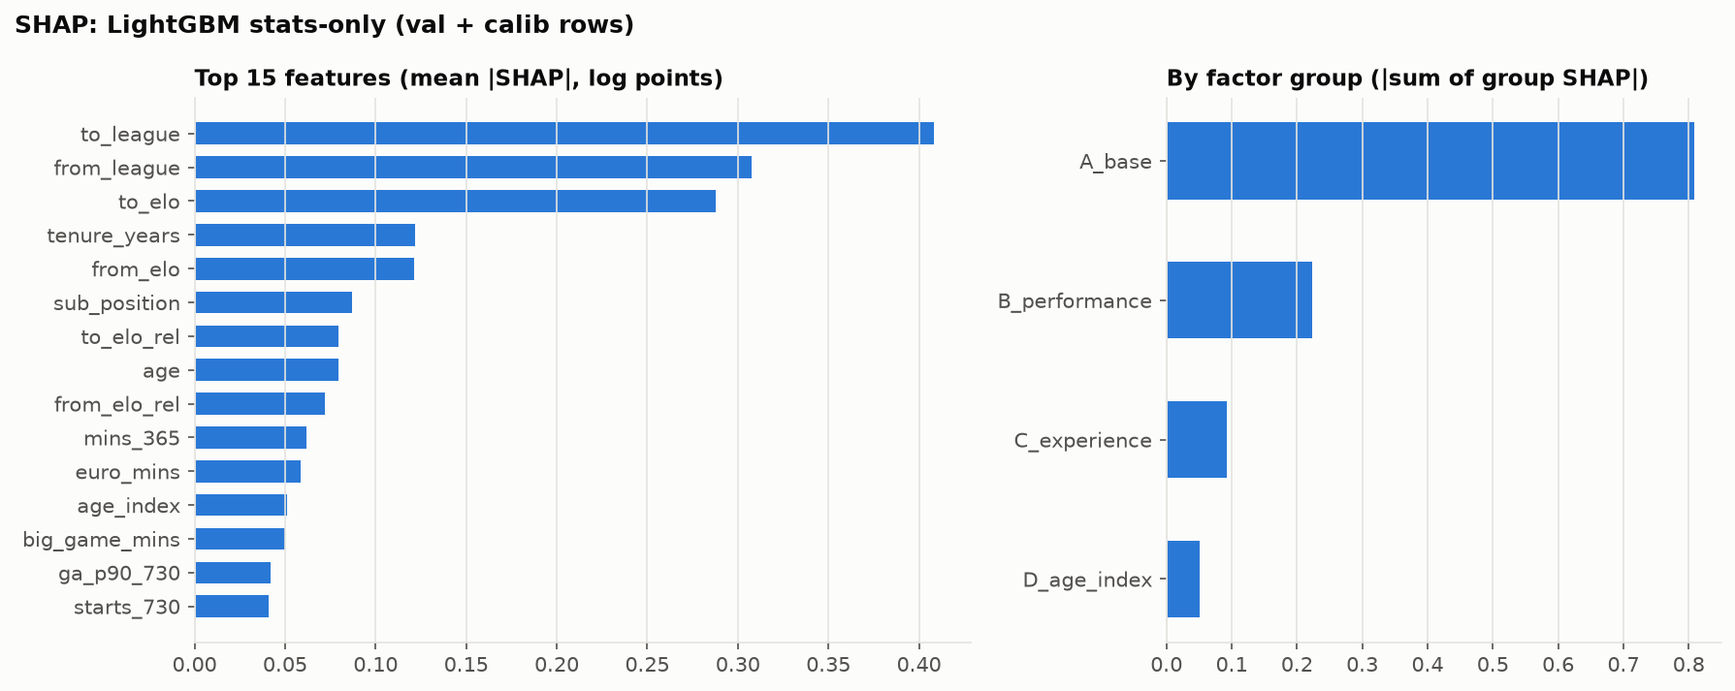
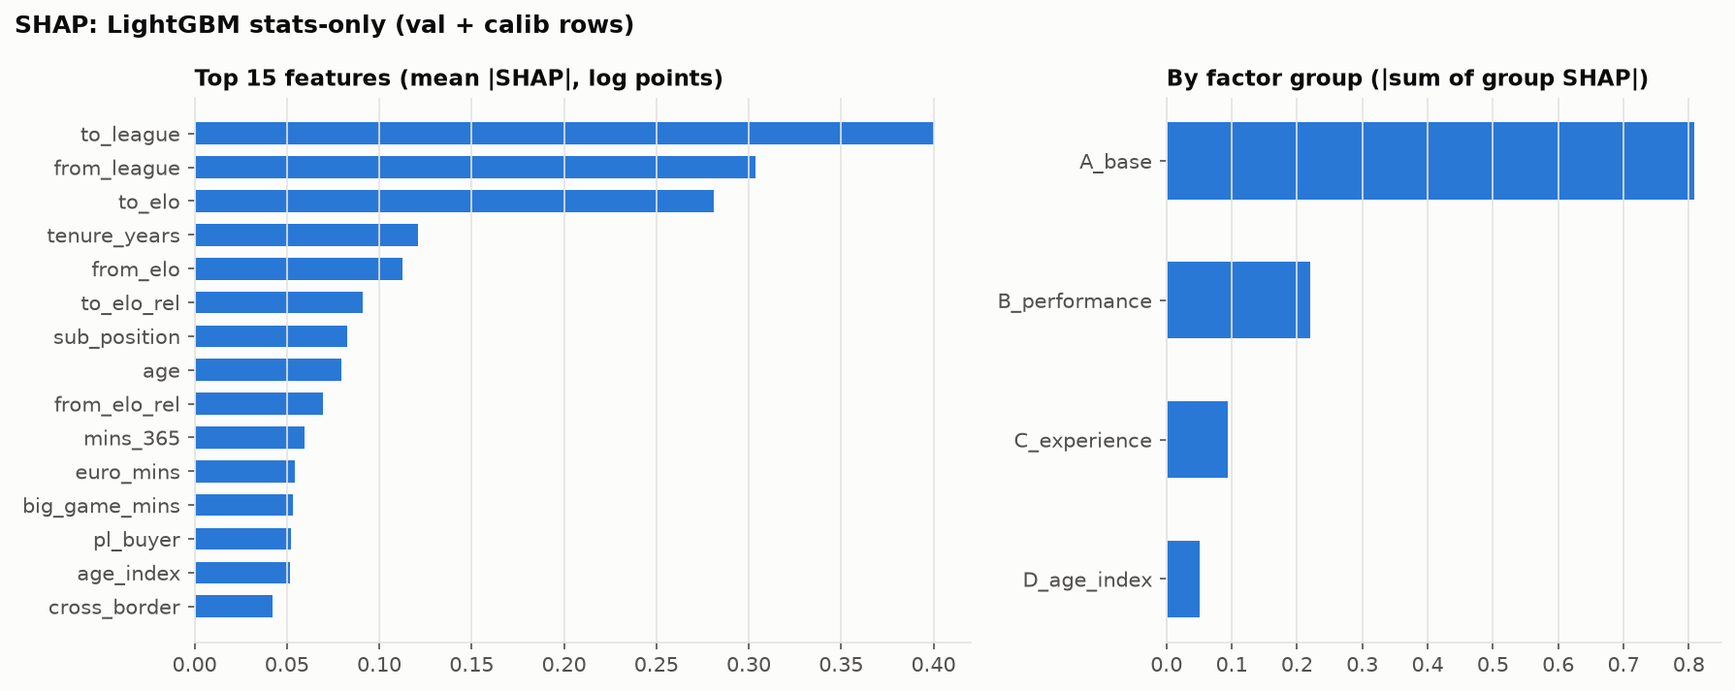
Checkpoint 1 decisions: segmented market-index deflator; brief v1.3 static website front end

diff --git a/src/fv/evaluation/report.py b/src/fv/evaluation/report.py
@@ -308,7 +308,7 @@ scored. All numbers below are validation (2020/21) unless stated.*
 * Splits: train < {cfg['splits']['train_end']} · validation → {cfg['splits']['val_end']} ·
   calibration → {cfg['splits']['calib_end']} · test after (untouched).
 * Target: real value = log(fee) − log(market index). Deflator used: **{meta['deflator']}**
-  (see the market-index section for why this overrides the pure validation rule).
+  (chosen at checkpoint 1 over the pure validation rule; see the market-index section).
 * Predictions are medians (exp of predicted log). MdAPE = median |pred / fee − 1|.
 * Fees are in EUR as recorded; GBP uses the ECB rate on the transfer date. Currency check: see
   `reports/data_audit.md` section 7 (fees agreed in £ were converted at the rate of the day; no
@@ -362,8 +362,9 @@ params), and the predictions converted back to money:
 its lead over the hedonic nowcast is within noise (90% CI includes 0), and on calibration all methods
 are tied. Prices in 2020–22 sat close to the training-period average, so an index cannot show its value
 there; it matters when the model has to price at levels outside its training range (test period and
-current valuations). The TM market level is clearly worst on validation. **Decision flagged for the
-user:** keep the hedonic nowcast (current setting) or follow the validation rule (no deflator).
+current valuations). The TM market level is clearly worst on validation. **Checkpoint 1 decision:**
+keep an index rather than none, using the segmented hedonic nowcast (best on calibration; it also removes
+the Premier League-buyer drift, section 4).
 
 ## 3. Price ranges (conformalized quantile regression)
 
@@ -389,9 +390,10 @@ Windows with fewer than {MIN_WINDOW_N} deals are excluded. **Drift found and par
 run flagged upward drift overall (the model over-priced post-2020 deals by ~10%). Cause: the median
 fee / TM-value ratio was ~1.2–1.4 in 2012–20 and ~1.0 from 2021, so TM values learned at the training
 ratio over-price later deals. Using the real-time ratio (`log_tm_adj`) removed the overall drift.
-**Still flagged:** PL buyers (only {int(drift.loc[drift.segment == 'PL buyers', 'windows'].iloc[0])} windows with ≥{MIN_WINDOW_N} deals):
-under-priced in 2015–17 (the Premier League TV-deal surge), close to zero since. The segmented
-deflator is the candidate fix; it was the best deflator on calibration but within noise.
+At checkpoint 1 PL buyers were still flagged (t = +2.16 with the un-segmented hedonic nowcast:
+under-priced in 2015–17, the Premier League TV-deal surge). The deflator was then switched to the
+segmented index (checkpoint 1 decision), which removed it. **Currently flagged:**
+{', '.join(f"{r.model} / {r.segment} (t = {r.t:+.2f})" for r in drift[drift.flag].itertuples()) or 'none'}.
 
 ## 5. Explanations (SHAP)
 

diff --git a/reports/model_report.md b/reports/model_report.md
@@ -8,8 +8,8 @@ scored. All numbers below are validation (2020/21) unless stated.*
 * Universe: permanent transfers with known fee ≥ €250,000, July 2012 → July 2026.
 * Splits: train < 2020-07-01 · validation → 2021-07-01 ·
   calibration → 2022-07-01 · test after (untouched).
-* Target: real value = log(fee) − log(market index). Deflator used: **hedonic nowcast**
-  (see the market-index section for why this overrides the pure validation rule).
+* Target: real value = log(fee) − log(market index). Deflator used: **hedonic nowcast + segments**
+  (chosen at checkpoint 1 over the pure validation rule; see the market-index section).
 * Predictions are medians (exp of predicted log). MdAPE = median |pred / fee − 1|.
 * Fees are in EUR as recorded; GBP uses the ECB rate on the transfer date. Currency check: see
   `reports/data_audit.md` section 7 (fees agreed in £ were converted at the rate of the day; no
@@ -36,20 +36,20 @@ Common subset where a Transfermarkt value ≥30 days before the deal exists (n =
 |:--------------------------------------------|----:|:--------|----------:|:------------|:------------|
 | TM baseline (≥30d)                          | 833 | 50.9%   |     0.694 | 25.9%       | 47.9%       |
 | TM × real-time ratio                        | 833 | 50.0%   |     0.689 | 26.9%       | 49.9%       |
-| Ridge, stats only                           | 833 | 51.7%   |     0.684 | 23.6%       | 48.3%       |
-| Ridge, with TM                              | 833 | 44.0%   |     0.581 | 28.1%       | 56.4%       |
-| LightGBM stats-only                         | 833 | 46.7%   |     0.636 | 27.6%       | 54.0%       |
-| LightGBM TM-corrected                       | 833 | 39.5%   |     0.55  | 30.1%       | 60.3%       |
+| Ridge, stats only                           | 833 | 50.8%   |     0.685 | 22.8%       | 48.6%       |
+| Ridge, with TM                              | 833 | 43.2%   |     0.578 | 28.9%       | 57.4%       |
+| LightGBM stats-only                         | 833 | 47.1%   |     0.639 | 27.4%       | 53.1%       |
+| LightGBM TM-corrected                       | 833 | 40.2%   |     0.542 | 31.8%       | 61.7%       |
 | TM transfers-table value (leaky, reference) | 833 | 44.4%   |     0.642 | 28.8%       | 53.1%       |
 
 All validation rows (n = 883; the TM baseline cannot price rows without a TM value):
 
 | model                 |   n | MdAPE   |   MAE_log | within_25   | within_50   |
 |:----------------------|----:|:--------|----------:|:------------|:------------|
-| Ridge, stats only     | 883 | 52.3%   |     0.694 | 22.9%       | 47.0%       |
-| Ridge, with TM        | 883 | 44.7%   |     0.596 | 27.2%       | 55.3%       |
-| LightGBM stats-only   | 883 | 47.5%   |     0.646 | 27.0%       | 52.7%       |
-| LightGBM TM-corrected | 883 | 40.8%   |     0.565 | 29.4%       | 58.6%       |
+| Ridge, stats only     | 883 | 52.2%   |     0.697 | 22.3%       | 47.2%       |
+| Ridge, with TM        | 883 | 44.6%   |     0.594 | 27.6%       | 56.3%       |
+| LightGBM stats-only   | 883 | 48.6%   |     0.651 | 26.7%       | 51.8%       |
+| LightGBM TM-corrected | 883 | 41.3%   |     0.558 | 30.9%       | 59.9%       |
 
 TM baseline scale factor (fit on train, as the brief specifies): ×1.250.
 "TM × real-time ratio" instead multiplies the TM value by the median fee/TM ratio of deals in the prior
@@ -66,40 +66,40 @@ TM-corrected model uses the same real-time-adjusted TM value (`log_tm_adj`).
 
 | fee_band   |   n | TM baseline (≥30d)   | TM × real-time ratio   | Ridge, stats only   | Ridge, with TM   | LightGBM stats-only   | LightGBM TM-corrected   |
 |:-----------|----:|:---------------------|:-----------------------|:--------------------|:-----------------|:----------------------|:------------------------|
-| <€5m       | 594 | 56.3%                | 54.2%                  | 50.9%               | 46.2%            | 48.1%                 | 43.4%                   |
-| €5–20m     | 179 | 40.6%                | 39.3%                  | 54.4%               | 41.3%            | 46.9%                 | 36.4%                   |
-| €20–50m    |  51 | 26.1%                | 29.1%                  | 46.8%               | 27.9%            | 37.0%                 | 20.9%                   |
-| €50m+      |   9 | 13.2%                | 16.6%                  | 25.9%               | 18.0%            | 28.5%                 | 27.6%                   |
+| <€5m       | 594 | 56.3%                | 54.2%                  | 50.9%               | 47.1%            | 49.1%                 | 45.1%                   |
+| €5–20m     | 179 | 40.6%                | 39.3%                  | 51.7%               | 40.3%            | 42.8%                 | 32.5%                   |
+| €20–50m    |  51 | 26.1%                | 29.1%                  | 45.0%               | 30.7%            | 43.9%                 | 19.1%                   |
+| €50m+      |   9 | 13.2%                | 16.6%                  | 28.3%               | 15.8%            | 36.0%                 | 35.6%                   |
 
 **By buying league**
 
 | buying_league   |   n | TM baseline (≥30d)   | TM × real-time ratio   | Ridge, stats only   | Ridge, with TM   | LightGBM stats-only   | LightGBM TM-corrected   |
 |:----------------|----:|:---------------------|:-----------------------|:--------------------|:-----------------|:----------------------|:------------------------|
-| Bundesliga      |  47 | 40.6%                | 36.5%                  | 52.1%               | 47.3%            | 42.9%                 | 40.3%                   |
-| LaLiga          |  53 | 42.7%                | 45.8%                  | 41.4%               | 38.2%            | 39.4%                 | 36.4%                   |
-| Ligue 1         |  64 | 50.0%                | 43.1%                  | 53.0%               | 39.7%            | 49.2%                 | 36.0%                   |
-| Other           | 487 | 57.1%                | 55.0%                  | 51.1%               | 46.0%            | 47.5%                 | 42.0%                   |
-| Premier League  |  85 | 48.1%                | 44.5%                  | 57.6%               | 39.0%            | 45.1%                 | 31.6%                   |
-| Serie A         |  97 | 41.1%                | 39.4%                  | 52.0%               | 39.2%            | 46.8%                 | 36.5%                   |
+| Bundesliga      |  47 | 40.6%                | 36.5%                  | 54.0%               | 47.5%            | 45.4%                 | 40.7%                   |
+| LaLiga          |  53 | 42.7%                | 45.8%                  | 42.0%               | 43.7%            | 35.2%                 | 34.5%                   |
+| Ligue 1         |  64 | 50.0%                | 43.1%                  | 50.4%               | 37.7%            | 47.6%                 | 34.2%                   |
+| Other           | 487 | 57.1%                | 55.0%                  | 51.2%               | 45.3%            | 49.1%                 | 44.2%                   |
+| Premier League  |  85 | 48.1%                | 44.5%                  | 55.8%               | 41.3%            | 48.0%                 | 35.6%                   |
+| Serie A         |  97 | 41.1%                | 39.4%                  | 49.5%               | 39.8%            | 42.8%                 | 35.4%                   |
 
 **By position group**
 
 | position_group   |   n | TM baseline (≥30d)   | TM × real-time ratio   | Ridge, stats only   | Ridge, with TM   | LightGBM stats-only   | LightGBM TM-corrected   |
 |:-----------------|----:|:---------------------|:-----------------------|:--------------------|:-----------------|:----------------------|:------------------------|
-| Attack           | 298 | 50.7%                | 52.0%                  | 52.7%               | 41.9%            | 48.6%                 | 39.0%                   |
-| Defender         | 240 | 52.2%                | 52.2%                  | 49.3%               | 46.5%            | 45.6%                 | 39.8%                   |
-| Goalkeeper       |  43 | 48.4%                | 44.0%                  | 51.8%               | 38.5%            | 43.6%                 | 37.7%                   |
-| Midfield         | 252 | 52.0%                | 44.8%                  | 52.5%               | 42.8%            | 46.3%                 | 43.1%                   |
+| Attack           | 298 | 50.7%                | 52.0%                  | 52.4%               | 41.7%            | 48.2%                 | 37.7%                   |
+| Defender         | 240 | 52.2%                | 52.2%                  | 47.9%               | 45.5%            | 42.4%                 | 41.8%                   |
+| Goalkeeper       |  43 | 48.4%                | 44.0%                  | 51.3%               | 40.3%            | 43.9%                 | 35.4%                   |
+| Midfield         | 252 | 52.0%                | 44.8%                  | 51.3%               | 42.8%            | 50.5%                 | 44.1%                   |
 
 **By age band**
 
 | age_band   |   n | TM baseline (≥30d)   | TM × real-time ratio   | Ridge, stats only   | Ridge, with TM   | LightGBM stats-only   | LightGBM TM-corrected   |
 |:-----------|----:|:---------------------|:-----------------------|:--------------------|:-----------------|:----------------------|:------------------------|
-| ≤20        | 142 | 59.6%                | 61.4%                  | 55.9%               | 46.9%            | 55.1%                 | 49.6%                   |
-| 21–23      | 280 | 40.8%                | 39.3%                  | 51.7%               | 45.4%            | 47.7%                 | 42.6%                   |
-| 24–26      | 226 | 50.0%                | 48.0%                  | 46.6%               | 37.1%            | 40.8%                 | 33.1%                   |
-| 27–29      | 143 | 70.5%                | 62.8%                  | 48.7%               | 46.0%            | 43.8%                 | 36.6%                   |
-| 30+        |  42 | 66.7%                | 57.0%                  | 54.4%               | 57.5%            | 48.6%                 | 47.5%                   |
+| ≤20        | 142 | 59.6%                | 61.4%                  | 56.0%               | 45.9%            | 55.9%                 | 46.6%                   |
+| 21–23      | 280 | 40.8%                | 39.3%                  | 50.4%               | 45.5%            | 46.9%                 | 44.6%                   |
+| 24–26      | 226 | 50.0%                | 48.0%                  | 44.5%               | 37.2%            | 40.6%                 | 32.6%                   |
+| 27–29      | 143 | 70.5%                | 62.8%                  | 52.6%               | 43.2%            | 49.1%                 | 34.3%                   |
+| 30+        |  42 | 66.7%                | 57.0%                  | 54.7%               | 54.3%            | 56.2%                 | 42.3%                   |
 
 
 ## 2. Market index
@@ -137,8 +137,9 @@ params), and the predictions converted back to money:
 its lead over the hedonic nowcast is within noise (90% CI includes 0), and on calibration all methods
 are tied. Prices in 2020–22 sat close to the training-period average, so an index cannot show its value
 there; it matters when the model has to price at levels outside its training range (test period and
-current valuations). The TM market level is clearly worst on validation. **Decision flagged for the
-user:** keep the hedonic nowcast (current setting) or follow the validation rule (no deflator).
+current valuations). The TM market level is clearly worst on validation. **Checkpoint 1 decision:**
+keep an index rather than none, using the segmented hedonic nowcast (best on calibration; it also removes
+the Premier League-buyer drift, section 4).
 
 ## 3. Price ranges (conformalized quantile regression)
 
@@ -146,13 +147,13 @@ user:** keep the hedonic nowcast (current setting) or follow the validation rule
 
 | model        | interval      |   below_q10 |   above_q90 |   coverage |   median_width_ratio |
 |:-------------|:--------------|------------:|------------:|-----------:|---------------------:|
-| Stats-only   | raw quantiles |        16.5 |        12.7 |       70.8 |                 6.49 |
-| Stats-only   | CQR           |        13.3 |        10.4 |       76.3 |                 8    |
-| TM-corrected | raw quantiles |        14.8 |        13.7 |       71.5 |                 5.16 |
-| TM-corrected | CQR           |        12.7 |        10.8 |       76.6 |                 6.2  |
+| Stats-only   | raw quantiles |        18.8 |        11.8 |       69.4 |                 6.89 |
+| Stats-only   | CQR           |        14.6 |         8.8 |       76.6 |                 8.48 |
+| TM-corrected | raw quantiles |        16.6 |        11.7 |       71.7 |                 5.22 |
+| TM-corrected | CQR           |        15.3 |         9.4 |       75.3 |                 5.87 |
 
 `median_width_ratio` = median of (upper / lower) bound. CQR offsets were fit on the calibration split
-(stats-only q̂ = 0.105, TM-corrected q̂ = 0.091 log points)
+(stats-only q̂ = 0.104, TM-corrected q̂ = 0.059 log points)
 and are evaluated here on validation, which is held out from both training and calibration.
 
 ## 4. Diagnostics: errors by window and segment
@@ -165,20 +166,21 @@ time (flag if |t| > 2):
 
 | model                 | segment      |   slope_per_year |    t |   windows | flag   |
 |:----------------------|:-------------|-----------------:|-----:|----------:|:-------|
-| LightGBM TM-corrected | all          |            0.015 | 1.03 |        14 | False  |
-| LightGBM TM-corrected | PL buyers    |            0.051 | 2.16 |         8 | True   |
-| LightGBM TM-corrected | Other buyers |            0.004 | 0.31 |        14 | False  |
-| LightGBM TM-corrected | Top-end      |            0.039 | 1.51 |         7 | False  |
-| LightGBM TM-corrected | Rest         |            0.011 | 0.79 |        14 | False  |
-| LightGBM stats-only   | all          |            0.024 | 1.9  |        14 | False  |
+| LightGBM TM-corrected | all          |            0.021 | 1.36 |        14 | False  |
+| LightGBM TM-corrected | PL buyers    |            0.022 | 1.02 |         8 | False  |
+| LightGBM TM-corrected | Other buyers |            0.017 | 1.19 |        14 | False  |
+| LightGBM TM-corrected | Top-end      |            0.034 | 1.13 |         7 | False  |
+| LightGBM TM-corrected | Rest         |            0.019 | 1.3  |        14 | False  |
+| LightGBM stats-only   | all          |            0.026 | 2.02 |        14 | True   |
 
 Windows with fewer than 30 deals are excluded. **Drift found and partly fixed:** a first
 run flagged upward drift overall (the model over-priced post-2020 deals by ~10%). Cause: the median
 fee / TM-value ratio was ~1.2–1.4 in 2012–20 and ~1.0 from 2021, so TM values learned at the training
 ratio over-price later deals. Using the real-time ratio (`log_tm_adj`) removed the overall drift.
-**Still flagged:** PL buyers (only 8 windows with ≥30 deals):
-under-priced in 2015–17 (the Premier League TV-deal surge), close to zero since. The segmented
-deflator is the candidate fix; it was the best deflator on calibration but within noise.
+At checkpoint 1 PL buyers were still flagged (t = +2.16 with the un-segmented hedonic nowcast:
+under-priced in 2015–17, the Premier League TV-deal surge). The deflator was then switched to the
+segmented index (checkpoint 1 decision), which removed it. **Currently flagged:**
+LightGBM stats-only / all (t = +2.02).
 
 ## 5. Explanations (SHAP)
 
@@ -190,12 +192,12 @@ Group importance, TM-corrected:
 
 | group         |   mean_abs_shap |
 |:--------------|----------------:|
-| H_crowd       |           0.548 |
-| A_base        |           0.47  |
-| B_performance |           0.075 |
-| G_momentum    |           0.056 |
-| D_age_index   |           0.055 |
-| C_experience  |           0.025 |
+| H_crowd       |           0.588 |
+| A_base        |           0.461 |
+| B_performance |           0.065 |
+| D_age_index   |           0.051 |
+| G_momentum    |           0.048 |
+| C_experience  |           0.021 |
 
 ## 6. Features and components
 
@@ -206,7 +208,7 @@ Group importance, TM-corrected:
 
 ![Aging curves](figures/aging_curves_position.png)
 
-* Feature groups in this phase: A_base, B_performance, C_experience, D_age_index, G_momentum, H_crowd. Hype (E), availability (F) and pace/profile (I)
+* Feature groups in this phase: A_base, B_performance, C_experience, D_age_index, E_hype, F_availability, G_momentum, H_crowd. Hype (E), availability (F) and pace/profile (I)
   arrive in phase 2.
 
 ## 7. Caveats

diff --git a/football-valuation-brief.md b/football-valuation-brief.md
@@ -6,6 +6,7 @@ Read this whole brief before writing any code. Work through the phases in order 
 > - **v1.0** — original brief.
 > - **v1.1 (2026-11-25, after checkpoint 0)** — training window and splits changed (section 5); contract approach chosen (section 6); current valuations dated 30 June 2026 because the source is frozen (section 9).
 > - **v1.2 (2026-11-25)** — added **section 15: market level / football inflation**. Sections 5, 7, 8, 9, 10, 11, 13 and 14 updated to match. Phase 0 work from section 15 moves into Phase 1 because Phase 0 is already done.
+> - **v1.3 (2026-11-25, after checkpoint 1)** — front end changed from a Streamlit app to a **static HTML website** built by `make site` and deployed to GitHub Pages (sections 9, 10, 11 Phase 4, 12 and 15.6). Market-index deflator set to the segmented hedonic nowcast to address Premier League drift.
 
 ---
 
@@ -205,24 +206,53 @@ Build features in groups so we can run **ablation tests** (does each group actua
 
 ---
 
-## 9. App (phase 4)
+## 9. Website (phase 4)
 
-Streamlit app:
-- **Player page:**
-  - Consensus fair value with 80% range, in **£ and €** (FX rate set in config)
-  - Toggle between **"today's money"** and **"money of the time"** (section 15.6)
-  - Transfermarkt value and the % gap ("undervalued by 18%")
-  - Evaluator breakdown with spread
-  - SHAP waterfall grouped by factor
-  - 12-month forecast fan chart (bear/base/bull), split into **player vs market** contributions
-  - Comparable transfers
-  - Factor scores (see below)
-  - **Durability rating** AAA → CCC from inferred availability percentiles
-  - Inferred unavailability timeline
-- **Factor scores (0–100):** percentile within position group among current players for Quality, Experience, Age Index (closer to or before peak scores higher), Brand, Hype, Durability, Momentum, Pace (when available) and Contract (years left).
-- **Screener page:** filter by league, position, age and value; sort by gap to Transfermarkt, forecast upside or factor scores.
-- **Methodology page:** data sources, how values are made, **how the market index works**, known limitations.
-- Scope for current valuations: start with all current **Premier League** players, configurable to more leagues. Current = as of 30 June 2026 (source frozen at 6 July 2026).
+A **static HTML website** replaces the earlier Streamlit plan. The Python pipeline is unchanged; the site is a read-only view of its outputs.
+
+**Architecture**
+- `make site` exports model outputs to JSON and renders HTML pages with **Jinja2** templates into `site/`.
+- No backend server and no Node build step: plain HTML, CSS and vanilla JavaScript, plus **one** lightweight charting library (Chart.js or Apache ECharts) saved locally in `site/assets/` (not loaded from a CDN).
+- **One pre-rendered page per player** at `/players/<slug>/`, so each has a shareable URL.
+- The screener loads a **single compact JSON** file.
+- Keep the site small: round numbers and export only the fields the pages use.
+
+**Pages**
+1. **Home:** headline findings (model vs Transfermarkt on the test set, with the main chart), a player search box, and a link to the methodology.
+2. **Player page** (`/players/<slug>/`):
+   - Consensus fair value with 80% range; Transfermarkt value and the % gap ("undervalued by 18%")
+   - Evaluator breakdown with the spread between evaluators
+   - "Why this price" waterfall chart (SHAP values grouped by factor)
+   - 12-month forecast fan chart (bear/base/bull), split into **player vs market** contributions
+   - Comparable transfers
+   - Factor scores (0–100), **durability rating** AAA → CCC (from inferred-availability percentiles) and the inferred unavailability timeline
+   - "Last updated" date
+3. **Screener:** sortable, filterable table (league, position, age, value, gap, forecast upside, factor scores), all in client-side JavaScript.
+4. **Market:** transfer price index chart by segment, and "most expensive transfers adjusted for football inflation" (section 15.6).
+5. **Methodology:** data sources, how values are calculated, **how the market index works**, evaluation results, known limitations, and a statement on AI use.
+
+**Factor scores (0–100):** percentile within position group among current players for Quality, Experience, Age Index (closer to or before peak scores higher), Brand, Hype, Durability, Momentum, Pace (when available) and Contract (years left).
+
+**Design**
+- Clean and professional, like a financial research site rather than a fan site. Consistent typography and a restrained colour palette. **No club logos or player photos** (copyright).
+- Works on mobile; accessible (good contrast, alt text, keyboard navigation); light and dark mode.
+- Two in-browser toggles: **£ / €** (FX rate set in config) and **"today's money" / "money of the time"** (section 15.6).
+- Every number has a tooltip or footnote explaining what it means.
+
+**Data and terms**
+- Publish **derived outputs only** (valuations, ranges, scores, aggregated stats). Never republish raw scraped tables from Understat, SoFIFA or Transfermarkt.
+- Credit every source on the methodology page and in the footer.
+
+**Deployment**
+- A GitHub Actions workflow builds the site from **committed model outputs** and deploys it to GitHub Pages on every push to `main`.
+- **Never run the scrapers in CI.**
+
+**Testing**
+- `make site` runs without errors and produces valid HTML.
+- A test checks for broken internal links.
+- If a headless browser is available, take screenshots of the home page, a player page and the screener at desktop and mobile widths, and show them at checkpoint 4.
+
+**Scope for current valuations:** start with all current **Premier League** players, configurable to more leagues. Current = as of 30 June 2026 (source frozen at 6 July 2026).
 
 ---
 
@@ -233,7 +263,7 @@ football-valuation/
   README.md            # overview, headline findings, how to run, sources + terms, limitations
   config.yaml          # dates, thresholds, leagues, FX, rate limits, paths, market index + scenarios
   pyproject.toml       # or requirements.txt
-  Makefile             # make ingest / features / train / evaluate / value / app / all / test
+  Makefile             # make ingest / features / train / evaluate / value / site / all / test
   data/                # raw/, interim/, processed/, snapshots/ (gitignored)
     manual/            # league_revenues.csv (hand-entered, sourced; committed to git)
   src/fv/
@@ -244,12 +274,17 @@ football-valuation/
     models/            # pricing.py, intervals.py, comps.py, evaluators.py, forecast.py, archetypes.py,
                        # market_forecast.py
     evaluation/        # metrics.py, backtest.py, ablation.py, report.py
-    app/               # streamlit_app.py
-  tests/               # leakage tests, feature unit tests, small pipeline smoke test
+    site/              # export.py (model outputs -> compact JSON), build.py (Jinja2 render)
+      templates/       # base.html, home.html, player.html, screener.html, market.html, methodology.html
+      static/          # css, vanilla JS, charting library (vendored, no CDN)
+  site/                # generated static website (output of `make site`)
+  site_data/           # committed model outputs the CI site build reads (derived values only)
+  .github/workflows/   # site.yml: build site from committed outputs, deploy to GitHub Pages
+  tests/               # leakage tests, feature unit tests, small pipeline smoke test, site link test
   reports/
 ```
 
-Suggested dependencies: pandas, pyarrow, duckdb, numpy, scikit-learn, lightgbm, shap, optuna, mapie (optional), soccerdata, understat (optional), requests, rapidfuzz, unidecode, pyyaml, matplotlib, plotly, streamlit, pytest.
+Suggested dependencies: pandas, pyarrow, duckdb, numpy, scikit-learn, lightgbm, shap, optuna, mapie (optional), soccerdata, understat (optional), requests, rapidfuzz, unidecode, pyyaml, matplotlib, plotly, jinja2, pytest (plus a vendored Chart.js or ECharts file for the site).
 
 Engineering standards: type hints, logging, one CLI command per stage, idempotent and cached stages, `make all` runs end-to-end from a clean checkout.
 
@@ -290,11 +325,14 @@ Engineering standards: type hints, logging, one CLI command per stage, idempoten
 - **Run the final test-set evaluation once.**
 - **CHECKPOINT 3:** show final test results and the market-forecast backtest.
 
-**Phase 4 — App and polish**
-- Retrain for current valuations; Streamlit app
-- Inflation-adjusted records chart, money toggle, player vs market fan chart, index methodology (section 15.6)
-- README with headline findings and charts (including the index chart and the records chart); methodology page
-- **CHECKPOINT 4:** demo the app and summarise the findings.
+**Phase 4 — Website and polish**
+- Retrain for current valuations; export derived outputs to JSON
+- Static website via `make site` (section 9): home, player pages, screener, market and methodology pages
+- Inflation-adjusted records chart, £/€ and money toggles, player vs market fan chart, index methodology (section 15.6)
+- GitHub Actions workflow deploying to GitHub Pages from committed outputs (no scrapers in CI)
+- Site tests: valid HTML, no broken internal links; headless-browser screenshots if available
+- README with headline findings and charts (including the index chart and the records chart)
+- **CHECKPOINT 4:** show the site (screenshots of home, a player page and the screener at desktop and mobile widths) and summarise the findings.
 
 ---
 
@@ -304,7 +342,9 @@ Engineering standards: type hints, logging, one CLI command per stage, idempoten
 - The report compares all models against the Transfermarkt baseline on the untouched test set, with breakdowns.
 - 80% intervals have 75–85% empirical coverage on the test set (or the report explains why not).
 - Leakage tests pass, including for the market index.
-- The app shows a full player page for every current Premier League player.
+- `make site` builds the static website without errors; HTML is valid and no internal links are broken.
+- The site has a full player page for every current Premier League player, and deploys to GitHub Pages from committed outputs.
+- The site publishes derived outputs only and credits every source.
 - The README documents sources, terms, methods, findings and limitations.
 
 ---
@@ -383,7 +423,7 @@ The model predicts **real value** = `log(fee) − log(market index at the transf
 ### 15.6 Outputs (Phase 4)
 
 - Chart: **"Most expensive transfers of all time, adjusted for football inflation"**: top 20 in today's £ and €, with the original fee alongside.
-- App: toggle between "today's money" and "money of the time"; fan chart with the player vs market breakdown; methodology section explaining the index.
+- Website: toggle between "today's money" and "money of the time"; fan chart with the player vs market breakdown; methodology page explaining the index; market page with the index and records charts.
 - README: add the index chart and the inflation-adjusted records chart.
 
 ### 15.7 Config
